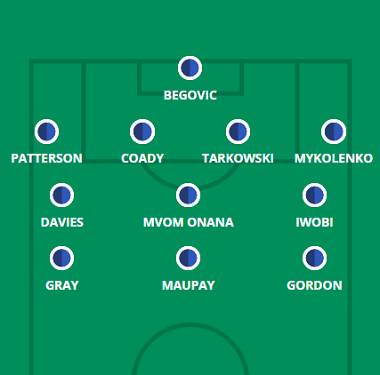
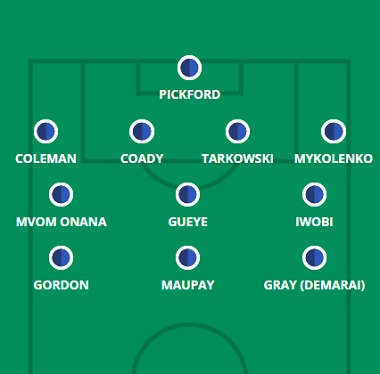
bourne e everton

diff --git a/everton.html b/everton.html
@@ -68,7 +68,7 @@
             <hgroup>
                 <h1> Provável Escalação</h1>
                 <h2 class="direita"> por FabioVascão </h2>
-                <h3 class="direita"> Atualizado em 16/Setembro/2022 </h3>
+                <h3 class="direita"> Atualizado em 29/Setembro/2022 </h3>
             </hgroup>
     
             <h2 class="time"> <img src="_fotos/_logos/logoeverton.png" />Everton</h2>
@@ -77,8 +77,8 @@
                     <img src="_fotos/_dinamicas/everton.png" />
                 </figure>
             </aside>
-                <div class="escalacao"><h2 class="titulo">Ultimas Notícias</h2> <h4><p>Frank Lampard será forçado a pelo menos uma mudança neste fim de semana, com Asmir Begovic definido para substituir Jordan Pickford entre os postes depois que o internacional da Inglaterra sofreu uma lesão na coxa no derby de Merseyside. Pickford se junta a Mason Holgate (lesão no joelho), Andros Townsend (lesão no joelho), Yerry Mina (lesão no tornozelo) e Ben Godfrey (lesão na perna) nas laterais do jogo de domingo, mas Abdoulaye Doucoure (lesão na coxa) está em forma e Dominic Calvert-Lewin (lesão no joelho) pode integrar o plantel da jornada após o regresso aos treinos na última quinzena. O dever de banco, na melhor das hipóteses, provavelmente acena para Calvert-Lewin, devido ao seu período de ausência e ao fato de que o Everton agora tem Neal Maupay para liderar a linha, enquanto Doucoure também pode enfrentar uma difícil tarefa de voltar ao meio-campo depois que Tom Davies teve um bom desempenho ao lado de Alex. Iwobi e Amadou Onana na semana 6. As novas contratações Idrissa Gana Gueye e James Garner também são alternativas na sala de máquinas, então Lampard de repente tem muitas opções à sua disposição depois de lutar por números durante grande parte de agosto.</p></h4><br>
-                    <h4><strong>Jogadores fora da próxima partida:</strong> Godfrey, Holgate, Mina, Pickford e Townsend</h4><br><br>
+                <div class="escalacao"><h2 class="titulo">Ultimas Notícias</h2> <h4><p>Frank Lampard será forçado a pelo menos uma mudança neste fim de semana, com Nathan Patterson (lesão no joelho) descartado por 4-5 semanas e se juntando a Mason Holgate (lesão no joelho), Andros Townsend (lesão no joelho), Yerry Mina (lesão no tornozelo) e Ben Godfrey (lesão na perna) à margem da viagem a Southampton. Frank Lampard praticamente confirmou que o veterano Seamus Coleman substituiria Patterson na lateral-direita, enquanto o chefe do Everton quase certamente fará uma segunda mudança não imposta, lembrando o novo Jordan Pickford às custas de Asmir Begovic. As mudanças parecem muito menos prováveis em outros lugares após a vitória da 8° Rodada sobre o West Ham, que ampliou a invencibilidade dos Toffees para cinco jogos. Sete do line-up previsto aqui são titulares sempre presentes da 4° Rodada em diante, enquanto podemos adicionar Pickford, Coleman e Neal Maupay à lista de quase certezas para apresentar no St Mary's; O caso de Maupay sendo ajudado por seu gol contra o West Ham e a incerteza de Lampard sobre se Dominic Calvert-Lewin estará apto o suficiente para se envolver na costa sul. A nova contratação Idrissa Gana Gueye substituiu o azarado Tom Davies na volância há duas semanas, então o último parece pronto para aquecer novamente o banco ao lado de nomes como Abdoulaye Doucoure, Dwight McNeil, James Garner, Michael Keane e Ruben Vinagre neste fim de semana.</p></h4><br>
+                    <h4><strong>Jogadores fora da próxima partida:</strong> Godfrey, Holgate, Mina, Patterson e Townsend</h4><br><br>
                     <h4><strong>Jogadores dúvidas:</strong> Calvert-Lewin</h4>
                 </div> 
         </header>

diff --git a/bourne.html b/bourne.html
@@ -68,7 +68,7 @@
             <hgroup>
                 <h1> Provável Escalação</h1>
                 <h2 class="direita"> por FabioVascão </h2>
-                <h3 class="direita"> Atualizado em 15/Setembro/2022 </h3>
+                <h3 class="direita"> Atualizado em 29/Setembro/2022 </h3>
             </hgroup>
     
             <h2 class="time"> <img src="_fotos/_logos/logobourne.png" />Bournemouth</h2>
@@ -77,9 +77,9 @@
                     <img src="_fotos/_dinamicas/bourne.png" />
                 </figure>
             </aside>
-                <div class="escalacao"><h2 class="titulo">Ultimas Notícias</h2> <h4><p>Joe Rothwell (lesão na coxa) e Ben Pearson (lesão no joelho) permanecem de fora e David Brooks (lsão na coxa) teve um pequeno revés em sua recuperação de uma paralisação de longo prazo, mas Junior Stanislas (lesão na virilha) pode entrar em disputa no sábado, tendo retornado para treinar durante o hiato de duas semanas. Os Cherries estão invictos e inalterados durante a passagem de duas partidas de Gary O'Neil como técnico interino, mas tiveram que fazer isso da maneira mais difícil contra o Nottingham Forest há duas semanas, voltando de 2 a 0 para conquistar os três pontos. O'Neil jogou Ryan Fredericks para Jordan Zemura no intervalo daquele jogo da 6° Rodada, com a mudança para um sistema de ala provocando o retorno. Resta saber como o técnico interino se aproxima de uma partida fora de casa em Newcastle, mas além desse enigma tático, é difícil ver O'Neil mudar muito depois que o time do litoral sul conquistou quatro pontos em suas últimas duas partidas. Jogadores como Jaidon Anthony e Kieffer Moore podem ter que permanecer enraizados no banco, junto com os reforços defensivos Jack Stacey, Marcos Sensei e Jack Stephens.</p></h4><br>
-                    <h4><strong>Jogadores fora da próxima partida:</strong> Brooks, Pearson e Rothwell</h4><br><br>
-                    <h4><strong>Jogadores dúvidas:</strong>  Stanislas</h4>
+                <div class="escalacao"><h2 class="titulo">Ultimas Notícias</h2> <h4><p>Lloyd Kelly (lesão no tornozelo) permanece de fora sem prazo definido para seu retorno, enquanto não está claro onde David Brooks está com sua reabilitação depois que ele sofreu uma lesão no tendão ao jogar pelo sub-23 no mês passado, após um longo período de afastamento. As notícias são bastante positivas em outros lugares, com Joe Rothwell (lesão na coxa) e Ben Pearson (lesão no joelho) "muito mais perto" de um retorno e Ryan Fredericks (não especificado) disse estar fazendo "grandes melhorias", embora não tenha ficado claro se o chefe interino Gary O'Neil estava excluindo completamente os três do jogo deste fim de semana ao enfrentar a mídia na quinta-feira. Os Cherries estão invictos em três partidas sob o comando de O'Neil, com a única mudança inicial do técnico interino naquele tempo sendo forçada (Marcos Senesi no lugar de Kelly) na 8° Rodada. Dada a forma da equipe atual e as contínuas dificuldades físicas de Kelly e dos demais, podemos esperar ver outra formação com poucas alterações neste fim de semana. Jogadores como Junior Stanislas, Jaidon Anthony e Kieffer Moore podem ter que permanecer enraizados no banco, junto com os reforços defensivos Jack Stacey e Jack Stephens.</p></h4><br>
+                    <h4><strong>Jogadores fora da próxima partida:</strong> Brooks, Kelly, Pearson e Rothwell</h4><br><br>
+                    <h4><strong>Jogadores dúvidas:</strong>  Fredericks</h4>
                 </div> 
         </header>
         </article>
